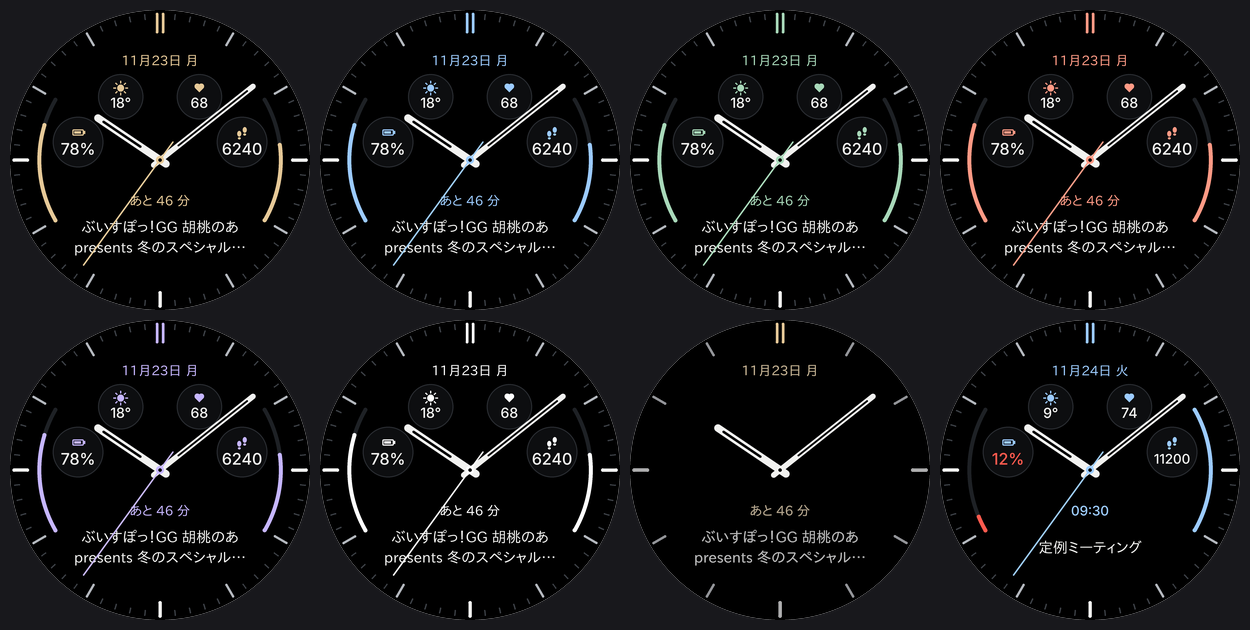
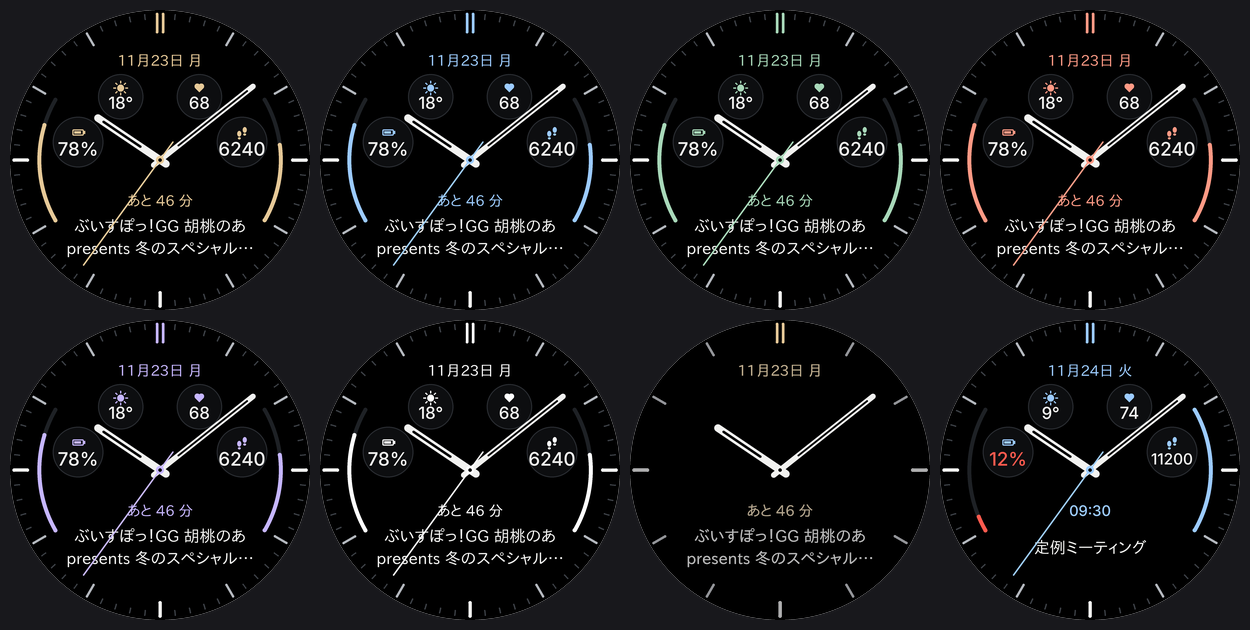
Larger text: date 22, battery/steps 28, weather/HR 25, event 22/24
Battery shows 100% at the smaller size so it stays inside the disc.

Claude-Session: https://claude.ai/code/session_0153GkUJgMbFYegMctzmUYaE

diff --git a/tools/generate.py b/tools/generate.py
@@ -40,17 +40,17 @@ BATT_START, BATT_SPAN = 240, 60    # left side, filling upward from bottom-left
 STEP_END, STEP_SPAN = 120, 60      # right side, filling upward from bottom-right
 
 # Date line at the top
-DATE_Y, DATE_SIZE = 76, 20
+DATE_Y, DATE_SIZE = 76, 22
 
 # Four discs in the upper half. Battery / steps sit right next to their gauges.
 OUTER_R, INNER_R = 38, 34
 BATT_POS, STEPS_POS = (102, 198), (348, 198)
 WEATHER_POS, HR_POS = (166, 130), (284, 130)
-OUTER_VALUE, OUTER_VALUE_LONG, INNER_VALUE = 24, 20, 21
+OUTER_VALUE, OUTER_VALUE_LONG, INNER_VALUE = 28, 23, 25
 
 # Calendar area (text only, no card): the whole lower half
 CAL_W, CAL_H, CAL_Y, CAL_RADIUS = 290, 126, 262, 30
-CAL_TIME_SIZE, CAL_TITLE_SIZE = 20, 22
+CAL_TIME_SIZE, CAL_TITLE_SIZE = 22, 24
 
 # Hands (length from center / tail length / width)
 HOUR_LEN, HOUR_TAIL, HOUR_W = 118, 16, 11
@@ -373,12 +373,15 @@ def build_xml() -> str:
     icon_battery(x, r, r - r * 0.38, ACCENT)
     x.open("Condition")
     x.open("Expressions")
+    x.raw('<Expression name="full">[BATTERY_PERCENT] &gt;= 100</Expression>')
     x.raw('<Expression name="charging">[BATTERY_CHARGING_STATUS]</Expression>')
     x.raw('<Expression name="low">[BATTERY_PERCENT] &lt;= 15</Expression>')
     x.close("Expressions")
-    for expr, color in (("charging", ACCENT), ("low", LOW)):
+    # "100%" is one character longer, so it uses the smaller size to stay inside the disc
+    for expr, color, size in (("full", WHITE, OUTER_VALUE_LONG), ("charging", ACCENT, OUTER_VALUE),
+                              ("low", LOW, OUTER_VALUE)):
         x.open("Compare", expression=expr)
-        text_part(x, f"battery_value_{expr}", 4, r + r * 0.27 - 14, 2 * r - 8, 28, OUTER_VALUE, color,
+        text_part(x, f"battery_value_{expr}", 4, r + r * 0.27 - 14, 2 * r - 8, 28, size, color,
                   template=("%d%%", ["[BATTERY_PERCENT]"]), weight="MEDIUM")
         x.close("Compare")
     x.open("Default")
